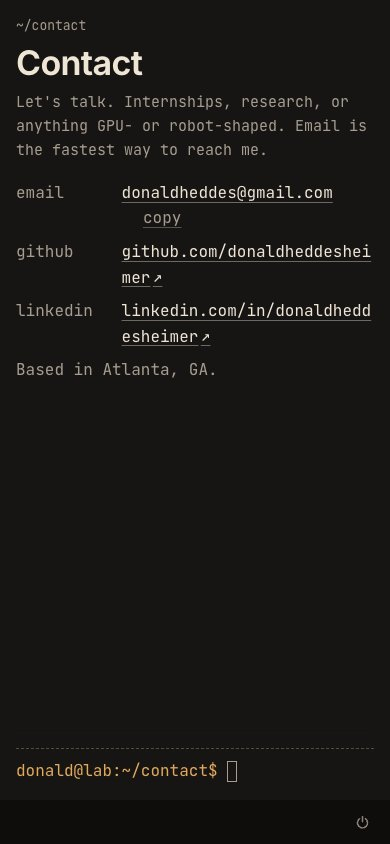
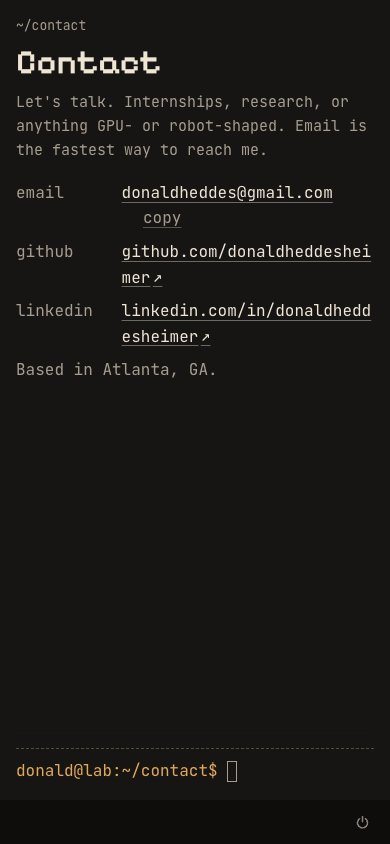
Keep the terminal's pixelated feel with a pixel face for titles
The Inter reading text read too clean for the lab's computer, so the
terminal goes back to the mono throughout, keeping the new hierarchy:
larger titles, bold project names and section headings, looser
prose and quieter metadata. Each view's title is now in Pixelify
Sans, loaded with the site's other Google Fonts, which matches the
pixel robot on About and leaves body text legible.

The after stills, comparison sheets and logs in
docs/evidence/terminal-type-2026-09-30/ are redone for this version.

Changed region(s): [[0.0308, 0.0616, 0.4, 0.0924]]

diff --git a/src/styles/terminal.css b/src/styles/terminal.css
@@ -1,10 +1,9 @@
 /* The lab computer's terminal (src/components/Terminal.astro) and its transcript, /computer/ (the same
-   views, standing alone, one after another). Charcoal, warm off-white type, and one accent, amber, for
-   the prompt and for what can be run. Two faces: the site's mono for the terminal itself (the prompt,
-   where a view is, commands, numbers and metadata), and its sans (--t-read) for what's read in a view:
-   titles, names and prose. Sizes follow the screen: the terminal is the container (the lab's
-   .pc-screen), so a larger monitor reads larger; on a touch screen the type never drops under 16px
-   (the prompt's field would zoom the page on focus). */
+   views, standing alone, one after another). Charcoal, warm off-white type in the site's mono, and one
+   accent, amber, for the prompt and for what can be run; a view's title alone is in a pixel face. Sizes
+   follow the screen: the terminal is the container (the lab's .pc-screen), so a larger monitor reads
+   larger; on a touch screen the type never drops under 16px (the prompt's field would zoom the page on
+   focus). */
 .term,
 .t-static {
   --t-bg: #171513;
@@ -14,8 +13,6 @@
   --t-rule: #2e2a26;
   --t-line: #554c42;
   --t-fs: clamp(0.8125rem, 1.4cqi, 1.0625rem);
-  --t-read: var(--font-sans);
-  --t-measure: 38em; /* prose, in the sans: about 75 characters a line */
   --t-pad-y: max(1rem, 2.6cqi);
   --t-pad-x: max(1rem, 3cqi);
   --t-gap: 1.1em;
@@ -110,11 +107,10 @@
   font-size: 0.8125em;
 }
 .t-title {
-  font-family: var(--t-read);
-  font-weight: 650;
+  font-family: var(--font-pixel);
+  font-weight: 600;
   font-size: 2.125em;
   line-height: 1.12;
-  letter-spacing: -0.02em;
 }
 .t-head > * + * {
   margin-top: 0.3em;
@@ -131,20 +127,11 @@
   font-size: 0.9375em;
 }
 
-/* What's read: in the sans, a calmer line and a shorter measure. Code, tables and anything inline that
-   the terminal would print (a command, a code span) keep the mono. */
-:is(.t-prose, .t-purpose, .t-role, .t-work-name, .t-work-line, .t-points, .t-cv h4),
-.t-md :is(p, li, blockquote),
-.t-out .t-sec > summary > .t-section {
-  font-family: var(--t-read);
-}
+/* What's read: a looser line, at most 70 columns. */
 :is(.t-prose, .t-purpose, .t-points),
 .t-md :is(p, li, blockquote) {
-  max-width: var(--t-measure);
+  max-width: 70ch;
   line-height: 1.65;
-}
-:is(.t-prose, .t-purpose, .t-role, .t-points, .t-md) :is(code, .t-cmd, .t-strong) {
-  font-family: var(--font-mono);
 }
 
 /* Output: lines of text, a half line between blocks, a blank line before each part. */
@@ -342,7 +329,6 @@
 }
 .t-md :not(pre) > code {
   padding: 0.05em 0.3em;
-  font-size: 0.9em;
   border-radius: 2px;
   background: rgb(235 229 218 / 0.08);
 }
@@ -383,6 +369,7 @@
    when, quieter; what it showed, in the accent; then my part and the hard part, each under its label, and
    where to find it. Its detail follows, folded (below). */
 .t-purpose {
+  max-width: 64ch;
   font-size: 1.125em;
 }
 .t-project > .t-head .t-sub {

diff --git a/src/styles/global.css b/src/styles/global.css
@@ -113,6 +113,7 @@
   --color-well: var(--well);
   --font-sans: 'Inter', ui-sans-serif, system-ui, sans-serif;
   --font-mono: 'JetBrains Mono', ui-monospace, 'SF Mono', monospace;
+  --font-pixel: 'Pixelify Sans', 'JetBrains Mono', ui-monospace, monospace;
 }
 
 html {

diff --git a/docs/lab-scene-handoff.md b/docs/lab-scene-handoff.md
@@ -28,8 +28,8 @@
   - **About** opens on my name, with a small pixel robot drawn from a character grid (hidden from screen readers). Then come the headline, school and city, the two profile paragraphs, what I'm doing now, and links to work, resume and contact.
   - **Resume** puts the PDF first, then each role on one line with its dates. What I did in each role, and the coursework, are folded.
   - **Contact** puts its note in the heading, so the email, copy button and profiles follow the title.
-  - **Type** (after the review's pass): two faces. The site's mono (JetBrains Mono) stays for the terminal itself: the prompt, where a view is, commands, row numbers, metadata, results, section labels, code and tables. What's read is in its sans (Inter, as `--t-read`): view and project titles (2.125em, weight 650), project names in work, purposes, prose, My part and The hard part's text, About's role, Resume's role lines and points, and the write-up's section headings (1.125em, weight 600, beside the mono `+`/`-`). Prose is 1.65 line-height on a 38em measure. Metadata is smaller (0.8125–0.9375em) and dim, so titles and names lead. Labels ("My part") stay mono, as in the mockup. Inline code in prose is mono at 0.9em. A dashed line divides the view from the prompt.
-- **The type pass** (PR #10's review: "a small font/hierarchy pass—not a redesign"): only `terminal.css`. Besides the type above, the heading reset in a view (`font: inherit` on h3–h6) now has zero specificity, so a heading's class sets its type; before, it quietly undid work's bold project names. Evidence in `docs/evidence/terminal-type-2026-09-30/`: `before/` (the overhaul's `shots.cjs` at `4018349`) and `after/`, the same 14 stills; `compare/`, six side-by-side sheets from `harness/compare.cjs` (work, work with all shown, a project folded and opened at 1440×900 on the monitor's screen, work and a project at 390×844); `logs/`. The build and tsc are clean. `validate.cjs` groups startup 10, commands 29, scroll 9, links 16, phone 25, nojs 11 and fit 23 pass; fit's one FAIL is the known 360×640 at 200% text, as before.
+  - **Type** (after the review's pass): the site's mono (JetBrains Mono) throughout, as a terminal, except each view's title, which is in a pixel face (Pixelify Sans, from Google Fonts with the others, at weights 500 and 600; no package). Titles are 2.125em; work's project names (1.1875em) and the write-up's section headings (1.125em) are larger and bold. Prose is 1.65 line-height on a 70-column measure, and metadata is smaller (0.8125–0.9375em) and dim, so titles and names lead. A dashed line divides the view from the prompt.
+- **The type pass** (PR #10's review: "a small font/hierarchy pass—not a redesign"): `terminal.css`, plus `--font-pixel` in `global.css` and the font in `Base.astro`'s Google Fonts link. A first take set the reading text in Inter; Donald wanted the pixelated feeling kept rather than a clean one, so the reading text went back to the mono, with only the titles in the pixel face. The heading reset in a view (`font: inherit` on h3–h6) now has zero specificity, so a heading's class sets its type; before, it quietly undid work's bold project names. Evidence in `docs/evidence/terminal-type-2026-09-30/`: `before/` (the overhaul's `shots.cjs` at `4018349`) and `after/`, the same 14 stills; `compare/`, six side-by-side sheets from `harness/compare.cjs` (work, work with all shown, a project folded and opened at 1440×900 on the monitor's screen, work and a project at 390×844); `logs/`. The build and tsc are clean. `validate.cjs` groups startup 10, commands 29, scroll 9, links 16, phone 25 and fit 23 pass; fit's one FAIL is the known 360×640 at 200% text, as before. nojs failed its anchor check at 1440 and 390 on the first run after the font link changed (nothing cached, so a late font moved the page under the anchor) and passed in every rerun (`validate-nojs-reruns.log`).
 - **What to judge:** `docs/evidence/terminal-overhaul-2026-09-30/`:
   - `screens/`, at 1440×900 on the monitor with a mouse:
     - the startup, help, and work, compact and with all eleven shown;
